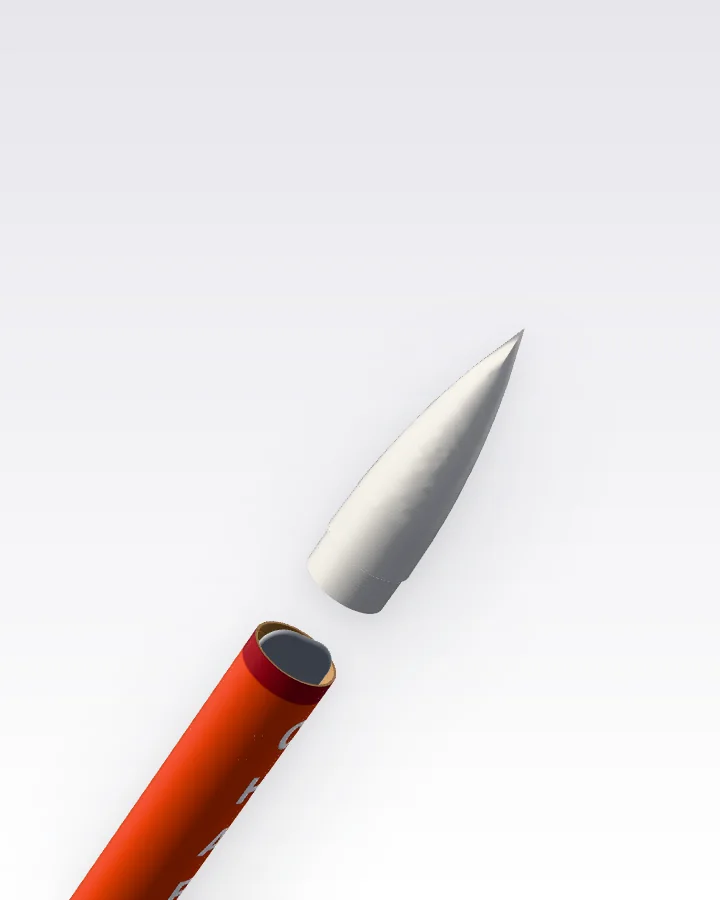
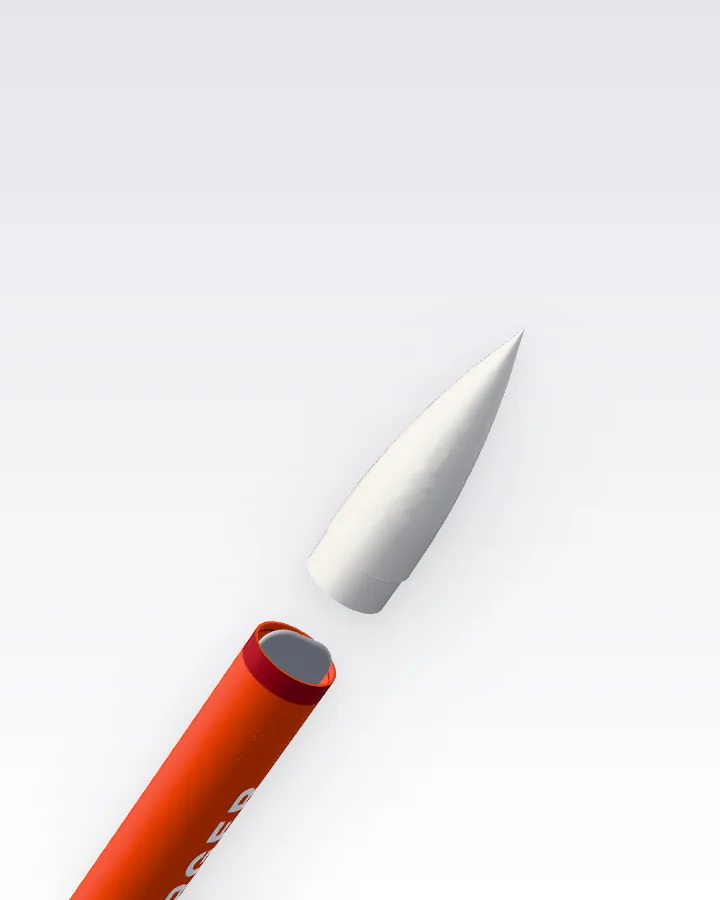
Work in progress: Vireo and Sideslip review fixes
Claude-Session: https://claude.ai/code/session_01CEbbDhhfzdpcoGhjMFhyie

Changed region(s): [[0.1528, 0.6844, 0.4889, 1.0], [0.4583, 0.3733, 0.7333, 0.6844]]

diff --git a/studies/vireo/js/poses.js b/studies/vireo/js/poses.js
@@ -20,9 +20,9 @@ export const FILM = {
     P(0.00, 1.19, 0.22, ROLL0, -0.02, 2.1, 0.06, 0.31),
     P(0.24, 1.19, 0.22, ROLL0 + 0.1, -0.02, 2.1, 0.06, 0.31),
     P(0.43, 0.8, 0.15, ROLL0 + 0.3, -0.02, 2.95, 0.36, 0.02),
-    P(0.66, 0.28, 0.05, ROLL0 + 0.6, -0.02, 3.45, 0.58, -0.02),
-    P(0.92, 0, 0, ROLL0 + 0.8, -0.02, 3.7, 0.66, -0.02),
-    P(1.70, 0, 0, ROLL0 + 1.0, -0.02, 3.7, 0.66, 0.04),
+    P(0.66, 0.28, 0.05, ROLL0 + 0.6, -0.02, 3.45, 0.68, -0.02),
+    P(0.92, 0, 0, ROLL0 + 0.8, -0.02, 3.7, 0.84, -0.02),
+    P(1.70, 0, 0, ROLL0 + 1.0, -0.02, 3.7, 0.84, 0.04),
     // onto the diagonal, whole, in the middle of the screen
     P(2.00, D, 0.1, 0.6, -0.1, 3.0, 0.02, -0.06),
     P(2.04, D, 0.1, 0.6, -0.1, 3.0, 0.02, -0.06),
@@ -44,24 +44,24 @@ export const FILM = {
   port: [
     P(0.00, 0.79, 0.22, ROLL0, 0.5707, 2.5, 0.74, 0.76),
     P(0.24, 0.79, 0.22, ROLL0 + 0.1, 0.5707, 2.5, 0.74, 0.76),
-    P(0.62, 0.3, 0.08, ROLL0 + 0.5, 0.2, 3.2, 0.78, 0.26),
+    P(0.62, 0.3, 0.08, ROLL0 + 0.5, 0.2, 3.4, 0.78, 0.12),
     P(0.95, 0, 0, ROLL0 + 0.8, -0.02, 3.6, 0.79, -0.04),
     P(1.70, 0, 0, ROLL0 + 1.0, -0.02, 3.6, 0.79, 0.0),
-    // the upper half, whole, on the diagonal of the phone
-    P(2.00, 0.62, 0.12, 0.6, 0.22, 1.7, 0.0, -0.12),
-    P(2.04, 0.62, 0.12, 0.6, 0.22, 1.7, 0.0, -0.12),
-    // apart: nose cone, payload out to the side, the tube
-    P(2.16, 0.62, 0.12, 0.62, 0.36, 1.75, 0.0, -0.14, 0.58, 0),
-    P(2.25, 0.62, 0.12, 0.64, 0.36, 1.75, 0.04, -0.14, 0.58, 1, 0.05),
-    P(2.33, 0.62, 0.12, 0.66, 0.36, 1.75, 0.04, -0.14, 0.58, 1, 0.05),
+    // whole, on a diagonal of the phone, above the words at the bottom
+    P(2.00, 0.62, 0.12, 0.6, -0.02, 3.3, 0.0, -0.2),
+    P(2.04, 0.62, 0.12, 0.6, -0.02, 3.3, 0.0, -0.2),
+    // apart: the camera moves in on the upper half, the payload comes out of its tube to the side
+    P(2.16, 0.66, 0.12, 0.62, 0.46, 2.3, -0.12, 0.3, 0.6, 0),
+    P(2.25, 0.66, 0.12, 0.64, 0.46, 2.3, -0.12, 0.3, 0.6, 1, 0.05),
+    P(2.33, 0.66, 0.12, 0.66, 0.46, 2.3, -0.12, 0.3, 0.6, 1, 0.05),
     // the payload
-    P(2.44, 0.55, 0.3, 0.62, 0.4, 1.05, 0.0, -0.1, 0.58, 1, 0.105),
-    P(2.54, 0.55, 0.3, 0.72, 0.4, 1.05, 0.0, -0.1, 0.58, 1, 0.105),
+    P(2.44, 0.95, 0.3, 0.62, 0.4, 1.0, 0.0, 0.24, 0.6, 1, 0.105),
+    P(2.54, 0.95, 0.3, 0.72, 0.4, 1.0, 0.0, 0.24, 0.6, 1, 0.105),
     // the motor mount
-    P(2.66, 0.7, -0.2, 1.1, -0.95, 1.15, 0.0, -0.1, 0.58, 1, -0.03),
-    P(2.76, 0.7, -0.2, 1.25, -0.95, 1.15, 0.0, -0.1, 0.58, 1, -0.03),
-    P(2.87, 0.6, 0.2, ROLL0, -0.02, 3.3, 0.0, -0.06),
-    P(3.00, 0.6, 0.2, ROLL0, -0.02, 3.3, 0.0, -0.06),
+    P(2.66, 1.05, -0.2, 1.1, -0.98, 1.1, 0.06, 0.1, 0.6, 1, -0.03),
+    P(2.76, 1.05, -0.2, 1.25, -0.98, 1.1, 0.06, 0.1, 0.6, 1, -0.03),
+    P(2.87, 0.6, 0.2, ROLL0, -0.02, 3.8, 0.0, -0.08),
+    P(3.00, 0.6, 0.2, ROLL0, -0.02, 3.8, 0.0, -0.08),
   ],
 };
 

diff --git a/studies/vireo/js/rig.js b/studies/vireo/js/rig.js
@@ -39,7 +39,7 @@ export const STAGE_STUDIO = {
 // black and the softbox reads as one long highlight) and the gray studio of the "Look closer" view.
 export const GRADES = {
   dark: { exposure: 1.05, light: [0.35, 0.4, 0.05], hemi: 1.35, key: 3.8, fill: 0.5, rim: 7, keyFront: 0.3, lift: 0.35 },
-  light: { exposure: 0.95, light: [0.45, 0.25, 0.3], hemi: 1.35, key: 3.8, fill: 1.1, rim: 2.4, keyFront: 0.5, lift: 0.15 },
+  light: { exposure: 0.95, light: [0.36, 0.22, 1.2], hemi: 1.8, key: 3.8, fill: 1.1, rim: 2.4, keyFront: 0.5, lift: 0.15 },
 };
 
 const nextTask = () => new Promise(r => { const c = new MessageChannel(); c.port1.onmessage = () => r(); c.port2.postMessage(0); });
@@ -146,7 +146,7 @@ export async function createRig({ canvas, quality = 'high', pixelRatio = default
   const ghostDepth = new THREE.MeshBasicMaterial({ colorWrite: false, depthWrite: true, transparent: true, side: THREE.DoubleSide });
   const ghostColor = new THREE.MeshStandardMaterial({ color: 0xd2d2d7, roughness: 0.62, metalness: 0, transparent: true, opacity: 0.3, depthWrite: false, depthFunc: THREE.LessEqualDepth, side: THREE.DoubleSide });
   ghostDepth.name = 'vireo:ghostDepth'; ghostColor.name = 'vireo:ghost';
-  const GHOST_ALPHA = 0.3;
+  ghostColor.userData.alpha = 0.3;
   for (const P of parts) for (const m of P.meshes) {
     if (used.has(m.material)) m.material = twin(m.material);
     used.add(m.material);
@@ -210,7 +210,7 @@ export async function createRig({ canvas, quality = 'high', pixelRatio = default
         m.visible = true;
       }
     }
-    ghostColor.opacity = GHOST_ALPHA;
+    ghostColor.opacity = ghostColor.userData.alpha;
   }
   function pose() {
     qT.setFromAxisAngle(Z, -S.tilt); qL.setFromAxisAngle(X, S.lean); qR.setFromAxisAngle(Y, S.roll); qO.setFromAxisAngle(Y, S.turn);
@@ -328,7 +328,7 @@ export async function createRig({ canvas, quality = 'high', pixelRatio = default
   try { if (relabel(renderer, tubes)) for (const m of tubes) if (m.material.map) renderer.initTexture && renderer.initTexture(m.material.map); } catch (e) { console.warn('[vireo] livery left as drawn', e); }
 
   return {
-    THREE, renderer, scene, camera, pivot, model, parts, byId, lights, look, dressed, state: S,
+    THREE, renderer, scene, camera, pivot, model, parts, byId, lights, look, dressed, state: S, ghost: ghostColor,
     size, setFrame, setGrade, setGhost, stepOpacity, snapOpacity, render, project, warmGhosts,
     dispose() { if (dressed && dressed.dispose) dressed.dispose(); if (built.dispose) built.dispose(); renderer.dispose(); },
   };

diff --git a/studies/vireo/css/vireo.css b/studies/vireo/css/vireo.css
@@ -162,7 +162,7 @@ html:not(.js) .bar, html:not(.js) .study-back.study-back--vireo { position: abso
 
 /* ---------- statement ---------- */
 .statement { position: relative; z-index: 1; min-height: var(--vh); display: grid; place-items: center; padding: 22vh 0 26vh; }
-.statement__text { width: min(820px, 56vw); font-size: clamp(32px, 3.9vw, 56px); line-height: 1.1; font-weight: 600; letter-spacing: -.012em; text-align: center; text-wrap: balance; color: var(--ink-d); }
+.statement__text { width: min(820px, 56vw, 110vh); font-size: clamp(32px, 3.9vw, 56px); line-height: 1.1; font-weight: 600; letter-spacing: -.012em; text-align: center; text-wrap: balance; color: var(--ink-d); }
 .statement__text .w { color: var(--dim-d); transition: color .2s linear; }
 .statement__text .w.on { color: var(--ink-d); }
 
@@ -366,7 +366,7 @@ html:not(.js) .plus__body p { opacity: 1; padding-bottom: 22px; }
   .statement { display: block; padding: 30vh 0 34vh; }
   .statement__text { width: auto; margin: 0 100px 0 var(--gutter); font-size: clamp(28px, 8.2vw, 40px); line-height: 1.12; text-align: left; text-wrap: pretty; }
 
-  .inside__title { left: var(--gutter); top: calc(var(--bar) + 5vh); font-size: clamp(40px, 11.5vw, 56px); }
+  .inside__title { left: var(--gutter); right: 120px; top: calc(var(--bar) + 5vh); font-size: clamp(40px, 11.5vw, 56px); }
   .inside__caps { left: var(--gutter); right: auto; bottom: calc(40px + env(safe-area-inset-bottom)); width: min(340px, 100% - 2 * var(--gutter)); }
   .cap__text { font-size: 22px; line-height: 1.2; }
   .chip { bottom: calc(40px + env(safe-area-inset-bottom)); }
@@ -420,6 +420,17 @@ html:not(.js) .plus__body p { opacity: 1; padding-bottom: 22px; }
   .cap .eyebrow { font-size: 15px; }
   .cap__text { font-size: 17px; line-height: 1.3; margin-top: 4px; }
   .chip { bottom: 16px; }
+}
+
+/* where the scene's words sit under the model (a phone, a short screen), the model fades out above them, so a part
+   that reaches down never runs under a line of text */
+@media (max-width: 760px) { .film__stage { --words: 190px; } }
+@media (max-height: 560px) { .film__stage { --words: 96px; } }
+@media (max-width: 760px), (max-height: 560px) {
+  .film__stage.in-pin canvas {
+    -webkit-mask: linear-gradient(#000 calc(100% - var(--words) - 36px), transparent calc(100% - var(--words)));
+    mask: linear-gradient(#000 calc(100% - var(--words) - 36px), transparent calc(100% - var(--words)));
+  }
 }
 
 @media (prefers-reduced-motion: reduce) {

diff --git a/studies/vireo/js/vireo.js b/studies/vireo/js/vireo.js
@@ -103,7 +103,7 @@ function heroFit() {
   const R = containRect(W, H, port ? 0.62 : 1.6, port ? 0 : 0.5), b = HERO_BOX[port ? 'port' : 'land'];
   const x1 = R.x + b[2] * R.w, y0 = R.y + b[1] * R.h, y1 = R.y + b[3] * R.h;
   const m = Math.min(64, H * 0.1), top = $('#bar').offsetHeight + m;
-  const bottom = heroCopy.offsetTop + (hero.getBoundingClientRect().top - stage.getBoundingClientRect().top) - m;
+  const bottom = heroCopy.parentElement.offsetTop + heroCopy.offsetTop + (hero.getBoundingClientRect().top - stage.getBoundingClientRect().top) - m;
   const s = Math.max(0.45, Math.min(1, (bottom - top) / (y1 - y0)));
   const ny0 = Math.min(Math.max(y0, top), bottom - (y1 - y0) * s);
   const dx = s < 1 ? Math.min(x1 * (1 - s), Math.max(0, W - 24 - x1 * s)) : 0, dy = ny0 - y0 * s;

diff --git a/studies/vireo/js/stage.js b/studies/vireo/js/stage.js
@@ -114,6 +114,7 @@ export async function mount(api) {
     S.tilt = pose.tilt; S.lean = pose.lean + leanOff * w; S.roll = pose.roll + rollNow; S.turn = turn * w;
     S.station = pose.station; S.dist = pose.dist; S.ox = pose.ox; S.oy = pose.oy; S.explode = pose.explode; S.pull = pose.pull; S.side = pose.side;
     fitFrame(...ks(uCur));
+    stage.classList.toggle('in-pin', uCur > 1.9);       // on a phone or a short screen the model fades out above the words (CSS)
     setInsideUI(clamp01(p));
     return uCur !== uGoal || idle > 0 || dragging || turnVel !== 0;
   }
